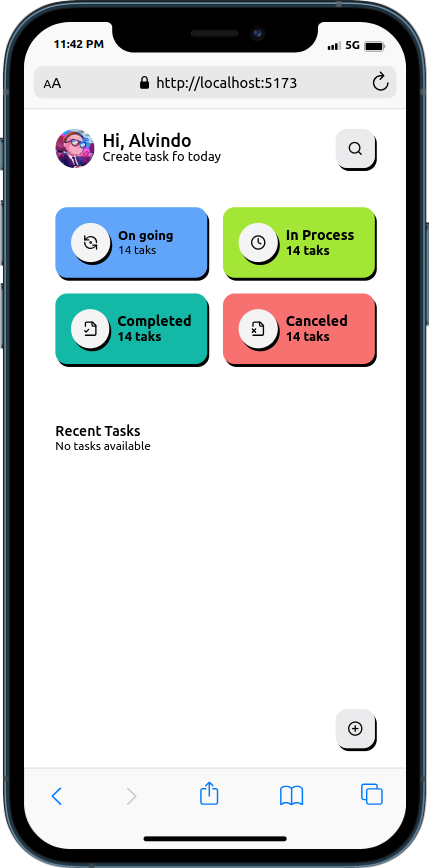
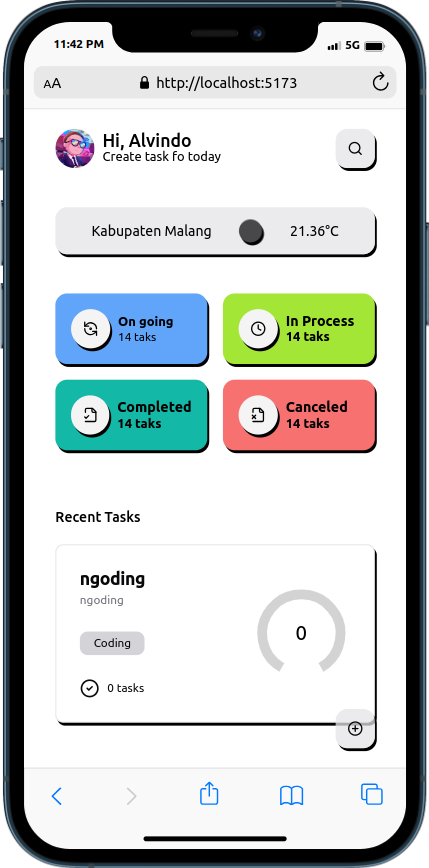
fix: preview readme

diff --git a/src/pages/App.jsx b/src/pages/App.jsx
@@ -37,12 +37,12 @@ function App() {
         );
     }, [toast]);
 
-    // const { data, isSuccess } = useQuery({
-    //     queryKey: ["weather", lat, lon],
-    //     queryFn: () => CurrentWeatherByGeo(lat, lon),
-    //     enabled: !!lat && !!lon,
-    //     staleTime: keepPreviousData,
-    // });
+    const { data, isSuccess } = useQuery({
+        queryKey: ["weather", lat, lon],
+        queryFn: () => CurrentWeatherByGeo(lat, lon),
+        enabled: !!lat && !!lon,
+        staleTime: keepPreviousData,
+    });
 
     return (
         <div className="flex flex-col gap-10">
@@ -61,11 +61,11 @@ function App() {
                     <Search className="h-4 md:h-10 w-4 md:w-10" />
                 </Button>
             </div>
-            {/* {!isSuccess ? (
+            {!isSuccess ? (
                 <Loader />
             ) : (
                 <WeatherInfo iconCode={data.data.weather[0].icon} city={data.data.name} temp={data.data.main.temp} />
-            )} */}
+            )}
             <Status />
             <GroupTaskList />
             <div className="pb-5 fixed container bottom-0">
